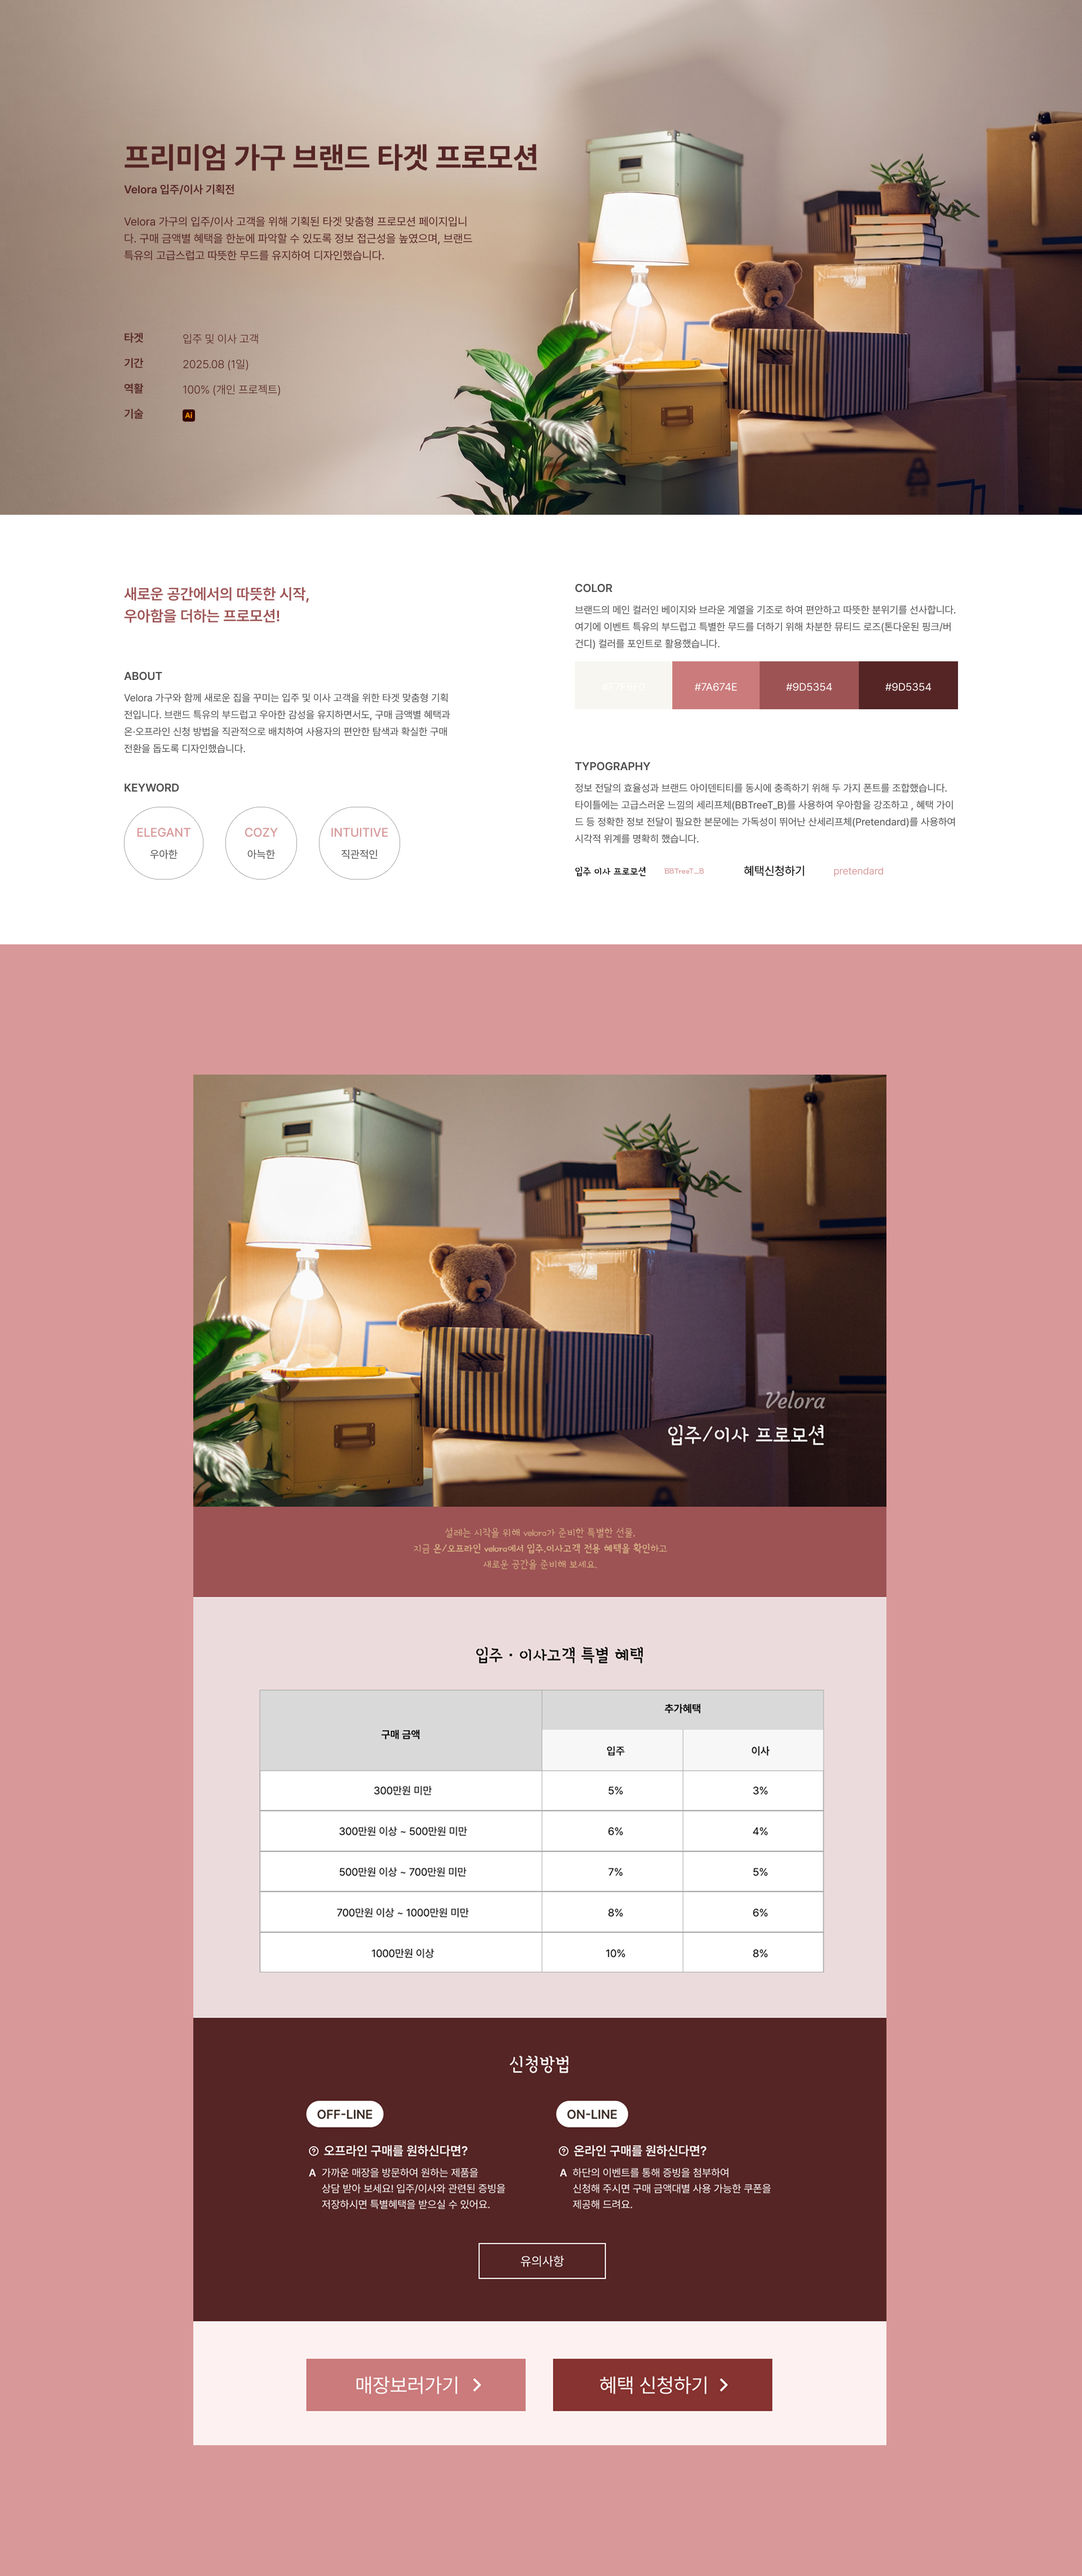
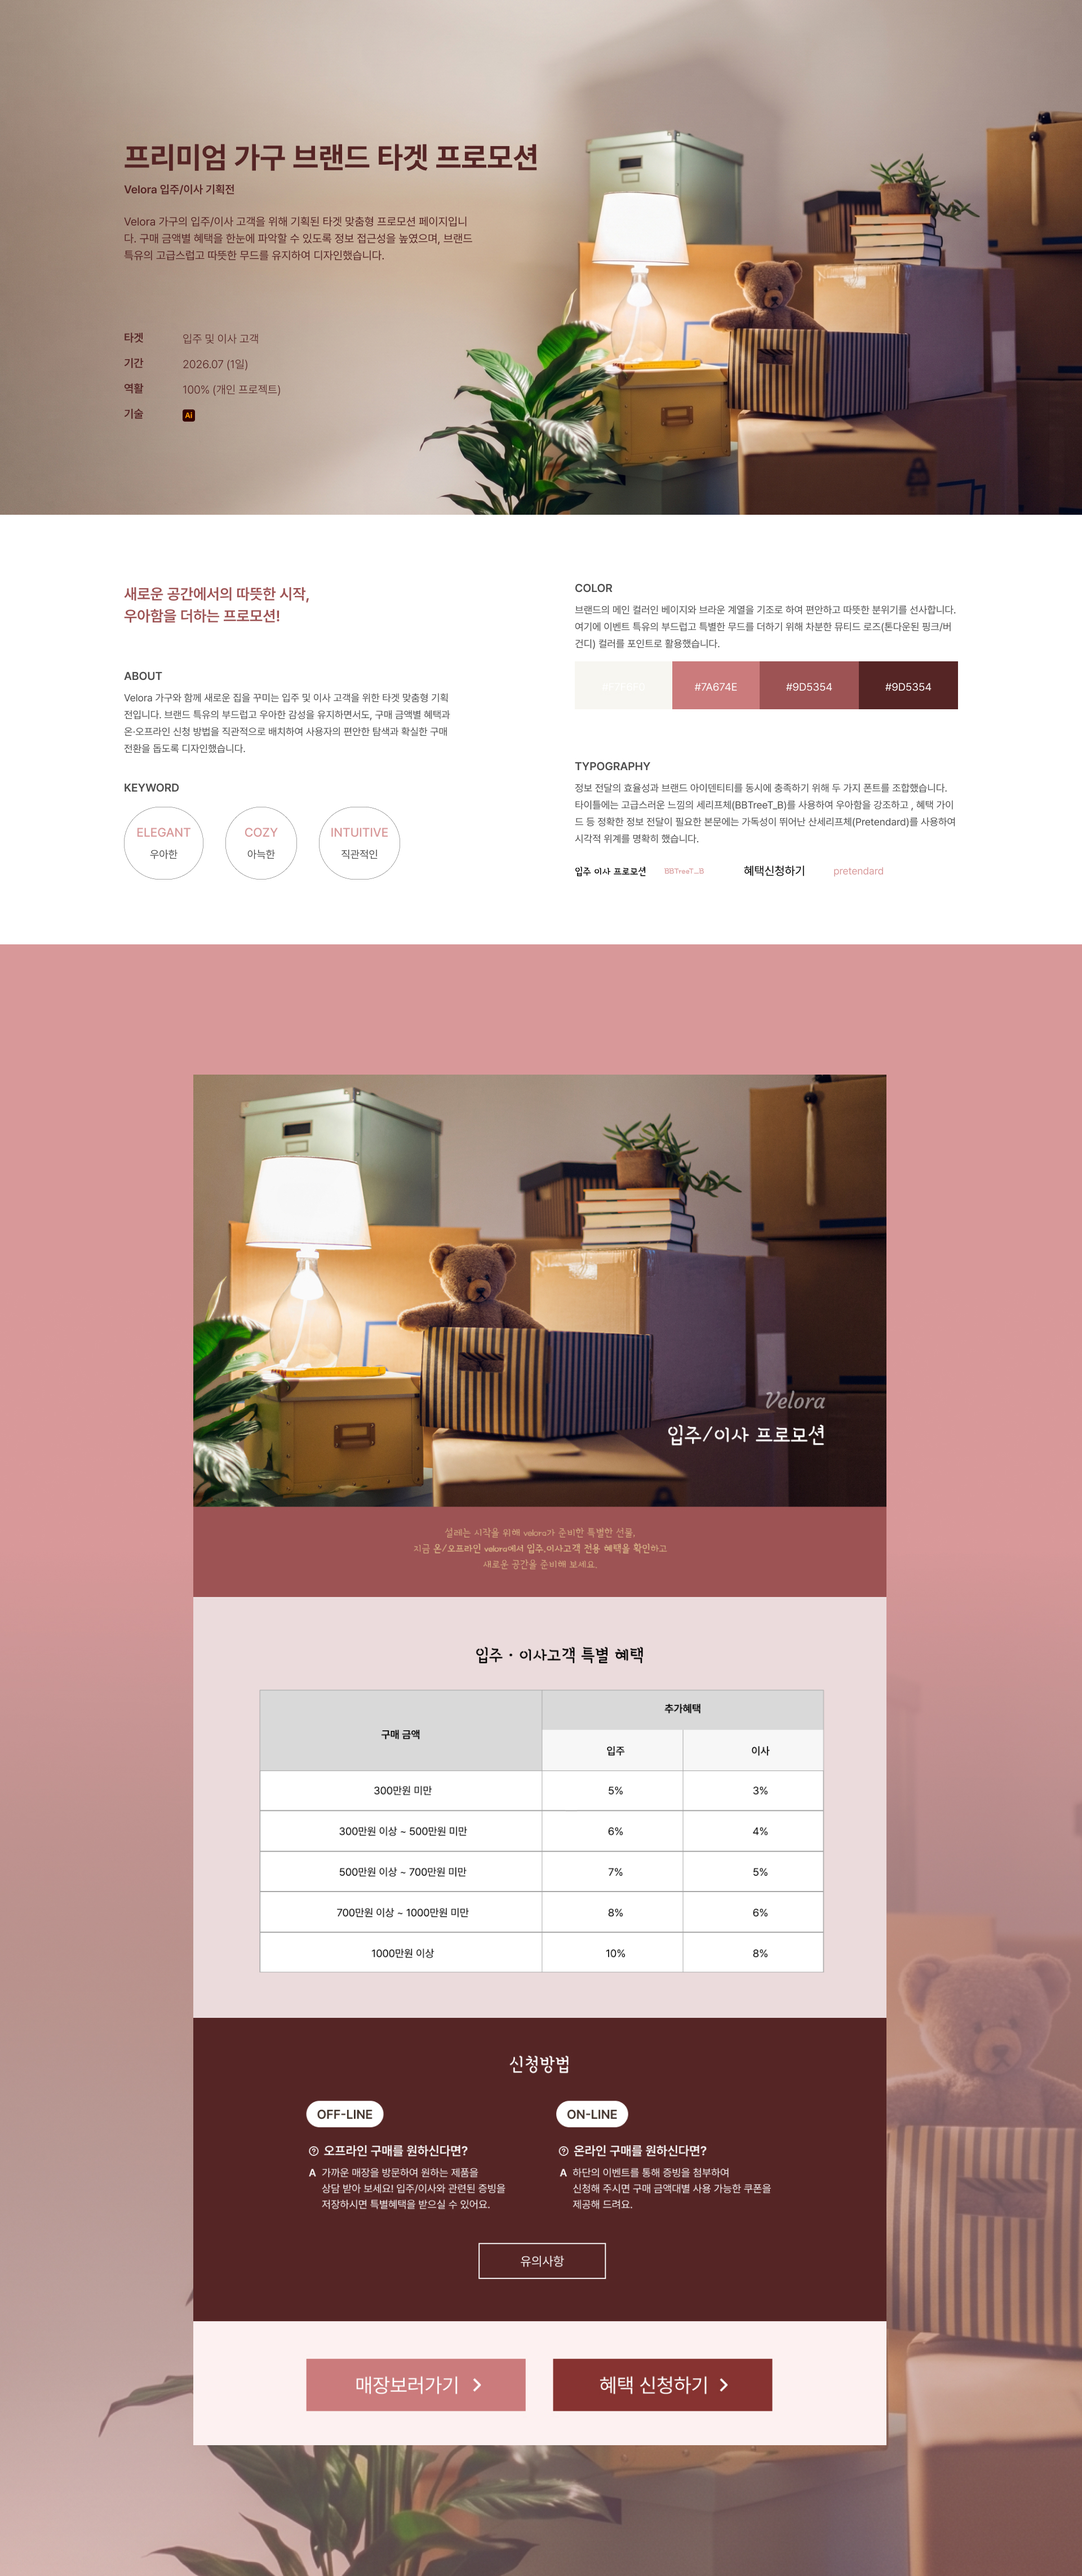
수정

Changed region(s): [[0.0, 0.6527, 1.0, 1.0]]

diff --git a/index.html b/index.html
@@ -22,8 +22,6 @@
 <body>
     <section class="portfolio" id="portfolio">
         <div class="portfolio-list">
-          
-          
             <div class="portfolio-item item10" onclick="window.open('./Covernat/covernat-process.html')">
               <p>Covernat 콘텐츠 디자인<br>스터디 프로젝트 2026.03</p>
             </div>
@@ -41,9 +39,6 @@
             </div> -->
             <!-- <div class="portfolio-item item5" onclick="window.open('./fittory/fittory-process.html')">
               <p>건강식품 이커머스 <br> 웹디자인 사이드프로젝트 2025.10</p>
-            </div> -->
-            <!-- <div class="portfolio-item item8" onclick="window.open('./Medicare/medicare-process.html')">
-              <p>병원 예약 & 건강관리 UIUX 앱디자인<br>2026.05</p>
             </div> -->
             <!-- <div class="portfolio-item item4" onclick="window.open('./app/app-process.html')">
               <p>꿈자리 앱디자인<br>2023.05</p>

diff --git a/Velora/velora-process.html b/Velora/velora-process.html
@@ -71,6 +71,7 @@
     <figure>
       <img src="./img/process.jpg" alt="velora-main" />
       <img src="./img/eventpage.jpg" alt="velora-eventpage" />
+      <img src="./img/detailpage.jpg" alt="velora-detailpage" />
     </figure>
   </main>
 
